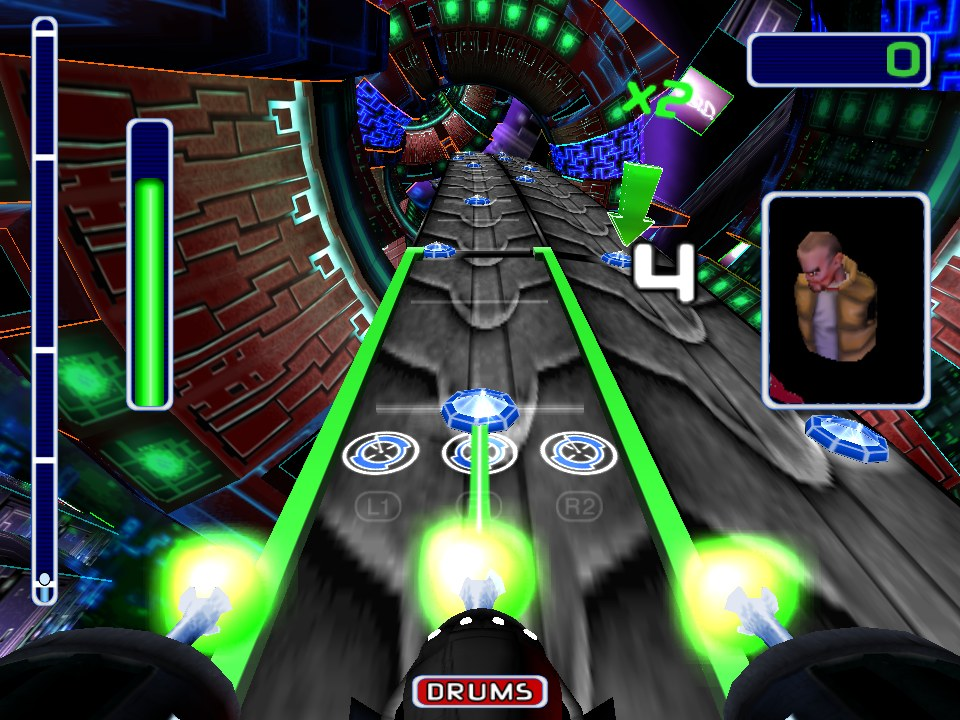
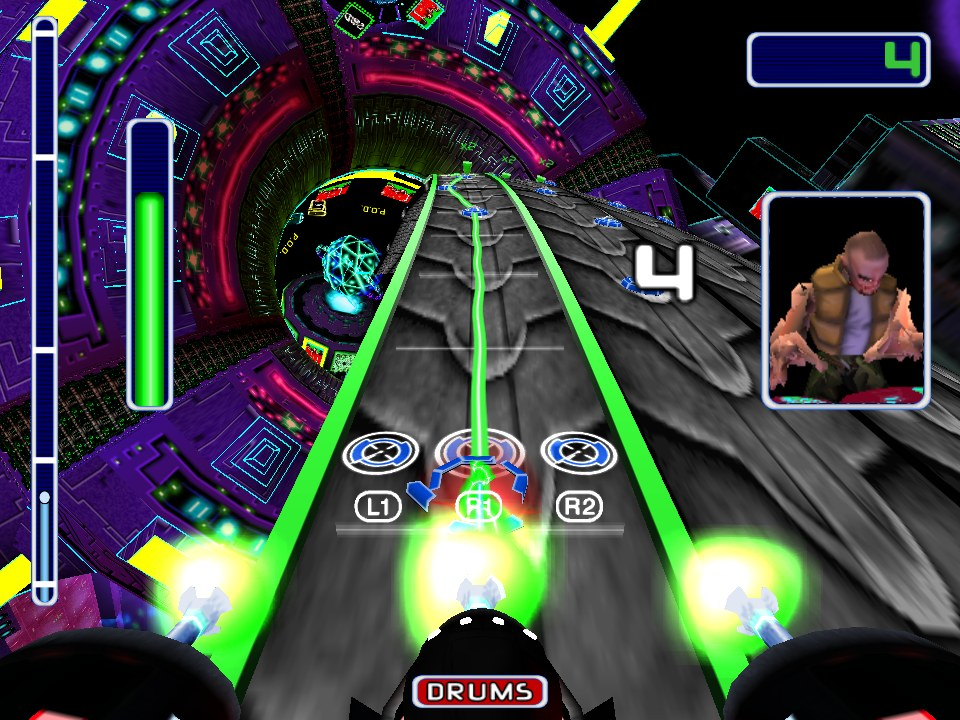
FreQs drawn whole, song select preview loops, render images freed
- The game's two VU0 microprograms (VCALLMS 0x156 and 0x1ba, the FreQs' bones) run in the port's VU0
  interpreter: unregistered, the engine's built-in table answered with Twisted Metal: Black's programs and the
  FreQs had no arms or legs.
- The song select's preview loops: softFX writes its mix into core 0's sound data input by ordinary transfers;
  BozoEngine's mixer now reads that input from sound memory when asked (Mixer::setMemoryInput, submodule branch
  amp/spu2-memory-input), and the port asks.
- Render-to-texture images: a buffer is a frame only when displayed within the last 30 flips, and the image drawn
  least lately is given up when all 14 are taken (the track went back to noise after a few menus and arenas).
- After a save state's load the boot's VU microcode is put back from the EE's RAM (states still lack the port's
  renderer state: noted).
- README and RECOMP_NOTES; FreQmaker and gameplay screenshots.

diff --git a/runtime/amp_gs_state.cpp b/runtime/amp_gs_state.cpp
@@ -605,6 +605,7 @@ namespace amp::gs
             uint32_t width = 0, height = 0;
             uint32_t psm = 0;               // FRAME's
             uint32_t drawnGeneration = 0;   // g_generation at its last draw (an upload over it since: stale)
+            uint64_t drawnFlip = 0;         // the flip of its last draw (the least recent gives its image up)
             float maxX = 0.0f, maxY = 0.0f; // the draws' extent
         };
         std::map<uint32_t, Offscreen> g_offscreen; // by FRAME.FBP
@@ -615,9 +616,14 @@ namespace amp::gs
                 p <<= 1;
             return p;
         }
+        // A frame buffer displayed lately (within 30 flips): a frame, not an image. Only lately: a buffer a loading
+        // screen or a menu once displayed can be an image later (the game's frames alternate between two buffers, so
+        // the four last displayed would keep an old one for ever).
+        std::array<uint64_t, 512> g_shownFlip{}; // by FBP: the flip it was last displayed at, plus 1
         bool displayed(uint32_t fbp)
         {
-            return std::find(g_frameBuffers.begin(), g_frameBuffers.end(), fbp * 32u) != g_frameBuffers.end();
+            const uint64_t shown = g_shownFlip[fbp & 511u];
+            return shown != 0 && g_flips + 1 - shown <= 30;
         }
         // The image a draw into FRAME's buffer goes to (null: the frame's own, or no image left).
         Offscreen *offscreenDrawn(uint64_t frame)
@@ -630,6 +636,16 @@ namespace amp::gs
             uint32_t used = 0;
             for (const auto &[f, o] : g_offscreen)
                 used |= 1u << o.target;
+            // No image left (each menu and arena draws its own buffers): the one drawn least lately gives its up.
+            if ((used | 1u | (1u << Material::kPreviousFrame)) == (1u << Material::kAuxiliaryImages) - 1u)
+            {
+                auto oldest = g_offscreen.begin();
+                for (auto it = g_offscreen.begin(); it != g_offscreen.end(); ++it)
+                    if (it->second.drawnFlip < oldest->second.drawnFlip)
+                        oldest = it;
+                used &= ~(1u << oldest->second.target);
+                g_offscreen.erase(oldest);
+            }
             for (uint8_t t = 1; t < Material::kAuxiliaryImages; ++t)
                 if (t != Material::kPreviousFrame && !(used & (1u << t)))
                 {
@@ -962,6 +978,7 @@ namespace amp::gs
                     {
                         Offscreen &o = it->second;
                         o.drawnGeneration = g_generation;
+                        o.drawnFlip = g_flips;
                         for (uint32_t i = 0; i < made; ++i)
                         {
                             o.maxX = std::max(o.maxX, tri[i].x);
@@ -1501,6 +1518,7 @@ namespace amp::gs
             std::rotate(g_frameBuffers.rbegin(), g_frameBuffers.rbegin() + 1, g_frameBuffers.rend());
             g_frameBuffers[0] = fbp * 32u;
         }
+        g_shownFlip[fbp & 511u] = g_flips + 1;
         g_offscreen.erase(fbp); // a buffer displayed is a frame, not an image
         if (!g_survey.empty() && g_flips % 250 == 0)
         {

diff --git a/runtime/amp_audio.cpp b/runtime/amp_audio.cpp
@@ -104,7 +104,18 @@ namespace amp
         sound = std::make_unique<bozo::native::irx::CompiledLibraries>(libraries, kAmpAudioHeapStart);
         g_libraries = &libraries;
         addAmpAudioImages(*sound);
-        libraries.audioProvider = [](uint64_t cycle) { return g_mixer = sound->advanceTo(cycle); };
+        libraries.audioProvider = [](uint64_t cycle)
+        {
+            g_mixer = sound->advanceTo(cycle);
+            // softFX writes its mix (the song select's preview loops) into core 0's sound data input by ordinary
+            // transfers, never starting a block transfer: the input is read from sound memory, as the SPU2 does.
+            if (static bool memoryInput = false; g_mixer && !memoryInput)
+            {
+                g_mixer->setMemoryInput(true);
+                memoryInput = true;
+            }
+            return g_mixer;
+        };
         libraries.sif.transfer = [](uint32_t address, const uint8_t *bytes, uint32_t count)
         {
             // AMP_TRACE_SIF=<most>: the SIF DMA transfers into the IOP's memory (address, size, first bytes).
@@ -153,10 +164,17 @@ namespace amp
     // Amplitude's save-state section: what the engine's own sections do not hold, the sound modules' IOP host (its
     // memory, tasks, RPC servers, libsd and the mixer). Without it a loaded state kept the IOP as it was: silent, and
     // the RPC servers the modules registered gone, so the next sceSdRemote went unanswered (a movie played after a
-    // load waited for its sound for ever). The game sends its textures, VU programs and VIF state again each frame.
+    // load waited for its sound for ever). The game sends its textures and VIF state again each frame, but its VU
+    // microcode only once at boot: a load puts it back from the EE's RAM (vif::restoreBootMicrocode).
     void installState(bozo::state::Sections &sections)
     {
-        sections.add({"amp", [](bozo::state::Archive &a) { sound->serialize(a); },
+        sections.add({"amp",
+                      [](bozo::state::Archive &a)
+                      {
+                          sound->serialize(a);
+                          if (a.loading())
+                              vif::restoreBootMicrocode();
+                      },
                       [] { return sound ? sound->unsaveable() : std::string(); }});
     }
 } // namespace amp

diff --git a/runtime/amp_vu1.cpp b/runtime/amp_vu1.cpp
@@ -1333,6 +1333,41 @@ namespace amp
 
     uint8_t *vu0::codeMemory() { return reinterpret_cast<uint8_t *>(g_vu0.micro); }
 
+    void vif::restoreBootMicrocode()
+    {
+        if (!eeRam)
+            return;
+        // VU1: the boot's MPG uploads (micro pair, pairs, EE address), as tools/amp_vu1_recomp.py lists them.
+        static const uint32_t kUploads[][3] = {
+            {0x06c, 256, 0x3ad578}, {0x16c, 147, 0x3add80}, {0x260, 205, 0x3acf08}, {0x373, 48, 0x3acd80},
+            {0x3d7, 2, 0x3acd68},   {0x3dc, 167, 0x3ac828}, {0x508, 6, 0x3ac7f0},   {0x512, 63, 0x3ac5f0},
+            {0x5a8, 88, 0x3ac328},  {0x63e, 256, 0x3ab980}, {0x73e, 51, 0x3ac188}};
+        for (const auto &u : kUploads)
+            std::memcpy(&g_vu.micro[u[0] * 2], eeRam + u[2], u[1] * 8u);
+        for (uint32_t &v : vu::g_segmentVersion)
+            ++v; // the compiled images checked again
+        // VU0: its one packet (0x3ae240: a DMA tag, then NOPs and MPGs).
+        const uint8_t *packet = eeRam + 0x3ae240u;
+        uint32_t tag;
+        std::memcpy(&tag, packet, 4);
+        const uint32_t bytes = 8u + (tag & 0xFFFFu) * 16u;
+        const uint8_t *stream = packet + 8;
+        for (uint32_t at = 0; at + 4 <= bytes;)
+        {
+            uint32_t code;
+            std::memcpy(&code, stream + at, 4);
+            at += 4;
+            const uint32_t cmd = (code >> 24) & 0x7Fu;
+            if (cmd == 0)
+                continue;
+            if (cmd != 0x4A || at % 8 != 0)
+                break;
+            const uint32_t num = ((code >> 16) & 0xFFu) ? (code >> 16) & 0xFFu : 256u, imm = code & 0x1FFu;
+            for (uint32_t k = 0; k < num && at + 8 <= bytes; ++k, at += 8)
+                std::memcpy(&g_vu0.micro[((imm + k) & 511u) * 2], stream + at, 8);
+        }
+    }
+
     uint64_t vif::vu1Pairs() { return g_vu.pairs; }
     uint64_t vif::vu1Programs() { return g_vu.programs; }
 

diff --git a/runtime/amp_render.cpp b/runtime/amp_render.cpp
@@ -305,6 +305,9 @@ namespace amp
             ctx->r[2].ud[0] = 0;
             ctx->pc = ctx->r[31].uw[0];
         }
+
+        // A VU0 microprogram (VCALLMS) at its entry pair, in the interpreter.
+        template <uint32_t kEntry> void vu0Program(uint8_t *, R5900Context *ctx, Runtime *rt) { vu0::run(rt, ctx, kEntry * 8u); }
     } // namespace
 
     // A load or store of the renderer's to a retired DMA register (the sites listed below): decoded and done on the
@@ -380,6 +383,12 @@ namespace amp
         renderer.setEnabled(true);
         renderer.setPresentsAlone(true);
         r.vu0CodeMemory(vu0::codeMemory());
+        // The game's VU0 microprograms (its only VCALLMS entries, pairs 0x156 and 0x1ba: the microcode VIF0 loads from
+        // 0x3ae240 at boot) run in runtime/amp_vu1.cpp's interpreter on that code. Without them registered, the
+        // engine's built-in table answered: Twisted Metal: Black's VU0 programs, whose results were wrong here (the
+        // FreQs' arms and legs were not drawn).
+        r.vu0Program(0x156 * 8, vu0Program<0x156>);
+        r.vu0Program(0x1ba * 8, vu0Program<0x1ba>);
     }
 
     void reportRender()

diff --git a/runtime/amp_port.h b/runtime/amp_port.h
@@ -83,6 +83,9 @@ namespace amp
         void report();
         uint64_t vu1Pairs();
         uint64_t vu1Programs();
+        // After a save state's load: the microcode the game sent to VU1 and VU0 once at boot, read again from the EE's
+        // RAM (a state does not hold the units' code memories, and the game never sends it again).
+        void restoreBootMicrocode();
         // The EE's RAM: where VIF data comes from, for the VU1 survey.
         inline const uint8_t *eeRam = nullptr;
     }

diff --git a/docs/RECOMP_NOTES.md b/docs/RECOMP_NOTES.md
@@ -147,6 +147,13 @@ interpreter runs them all).
   `source`; FST U / V and STQ scaled to the image). An image is only used for a texture of its own colour depth, and is
   dropped once an image transfer writes into its buffer after it was drawn: the menus draw into buffers whose memory
   later holds uploaded textures (FBP `0xf3` becomes the "DRUMS" label's T8 texture in play).
+- **VU0 microprograms.** The game calls two (VCALLMS at pairs 0x156 and 0x1ba, the microcode VIF0 loads from
+  `0x3ae240` at boot): the FreQs' bones. The port had not registered them, so the engine's built-in table answered
+  with Twisted Metal: Black's VU0 programs: the FreQs were drawn without arms and legs. `runtime/amp_render.cpp`
+  registers both with `runtime/amp_vu1.cpp`'s interpreter (as Shinobido does).
+- **Render images are freed.** A buffer counts as a frame only when displayed within the last 30 flips (the four last
+  displayed kept a loading screen's buffer a frame for ever), and when the 14 images are taken the one drawn least
+  lately is given up: after a few menus and arenas the track was noise again.
 - **The VU1 programs are compiled.** All of Amplitude's VU1 code is uploaded once at boot, eleven MPGs from the
   executable's data (`0x3ab980`-`0x3ae188`, found with `AMP_VU_SURVEY=1`). `tools/amp_vu1_recomp.py` (Shinobido's
   `shino_vu1_recomp.py` with that list in place of its packet scan) compiles them at build time into 9 images, 1,289
@@ -173,6 +180,13 @@ interpreter runs them all).
   lost, and the PCM packets being 4,073 bytes (odd), every sample after it was read a byte off. The port's `sceCdStRead`
   (`runtime/amp_port.cpp`) brings a read without waiting all its sectors or none. The intro now plays its music.
   Found by following the bytes: the IOP buffer (`AMP_TRACE_SIF`), the player's ring at `0x436d88`, the demux's packets.
+- **The song select's preview loops were silent.** softFX (SOFTFX_S) mixes the preview in software and writes it into
+  core 0's sound data input (bytes `0x4000`-`0x47ff`) by ordinary voice transfers, double-buffered by halves on the
+  output IRQ, with no block transfer. The SPU2 plays that area at the output position whatever writes it; the engine's
+  mixer played the input only for a block transfer. BozoEngine's `Mixer::setMemoryInput` (branch
+  `amp/spu2-memory-input`, opt-in) reads it from sound memory; `runtime/amp_audio.cpp` turns it on.
+- **Save states** do not hold the port's renderer and DMA state yet: a state loads, then the game waits for ever. The
+  boot's VU microcode is put back after a load (`vif::restoreBootMicrocode`), which a working load will need.
 
 ## IPU pictures: the animated textures
 
@@ -259,7 +273,7 @@ the stream fix; not compared with the console yet).
 
 ## Next steps
 
-1. The white blotches; the title's sound against the console.
+1. Save states (the port's renderer and DMA state); the white blotches; the title's sound against the console.
 2. Timing: input and sound against the beat, compared with the console.
 3. Native draws: the renderer answered at its own functions instead of through VIF1 / VU1 / GIF.
 4. Upstream to BozoEngine: the IRX translator fix and the mixer's output IRQ are merged; still a native `sceIoctl`

diff --git a/README.md b/README.md
@@ -45,10 +45,12 @@ with its sound, the track's surface and the HUD's monitor drawn by render-to-tex
 | FreQmaker, arena and song selection, the training with its narration | ✅ |
 | A complete song: streamed music, gems, scoring, energy, results screen | ✅ |
 | Render-to-texture (the track's surface, the FreQ's monitor, HUD messages) | ✅ |
-| Intro movie sound | ✅ |
+| Intro movie sound, the song select's preview loops | ✅ |
+| FreQs drawn whole (the game's VU0 microprograms) | ✅ |
 | Full speed: the VU1 programs compiled to C++ (60 frames a second with room to spare) | ✅ |
 | White blotches on the title and on highlighted labels | 🔧 |
 | Input and sound timing checked against the console | ⏳ |
+| Save states (the port's renderer state is not saved yet) | ⏳ |
 | Memory-card saves, multitap (four players) | ⏳ |
 | Native draws (the renderer answered at its own functions, not through VIF1 / GS packets) | ⏳ |
 | Linux build | ⏳ |
@@ -67,7 +69,8 @@ Captured from the current build at 960x720.
 |---|---|---|
 | ![The memory-card check](docs/screenshots/memory-card-check.jpg) | ![Sony Computer Entertainment America presents](docs/screenshots/scea-presents.jpg) | ![The Harmonix logo](docs/screenshots/harmonix-logo.jpg) |
 | ![The intro movie](docs/screenshots/intro-movie.jpg) | ![The title screen's fly-over](docs/screenshots/title-flyover.jpg) | ![The title screen](docs/screenshots/title.jpg) |
-| ![The main menu](docs/screenshots/main-menu.jpg) | ![Solo: select your FreQ](docs/screenshots/select-freq.jpg) | ![Select an arena](docs/screenshots/select-arena.jpg) |
+| ![The main menu](docs/screenshots/main-menu.jpg) | ![Solo: select your FreQ](docs/screenshots/select-freq.jpg) | ![The FreQmaker](docs/screenshots/freqmaker.jpg) |
+| ![Select an arena](docs/screenshots/select-arena.jpg) | | |
 | ![Select a song](docs/screenshots/select-song.jpg) | ![The warp into the song](docs/screenshots/song-intro.jpg) | ![Boom, in Neotropolis](docs/screenshots/gameplay.jpg) |
 | ![Tracks turned on, the score climbing](docs/screenshots/gameplay-score.jpg) | ![Player stats after the song](docs/screenshots/player-stats.jpg) | |
 
